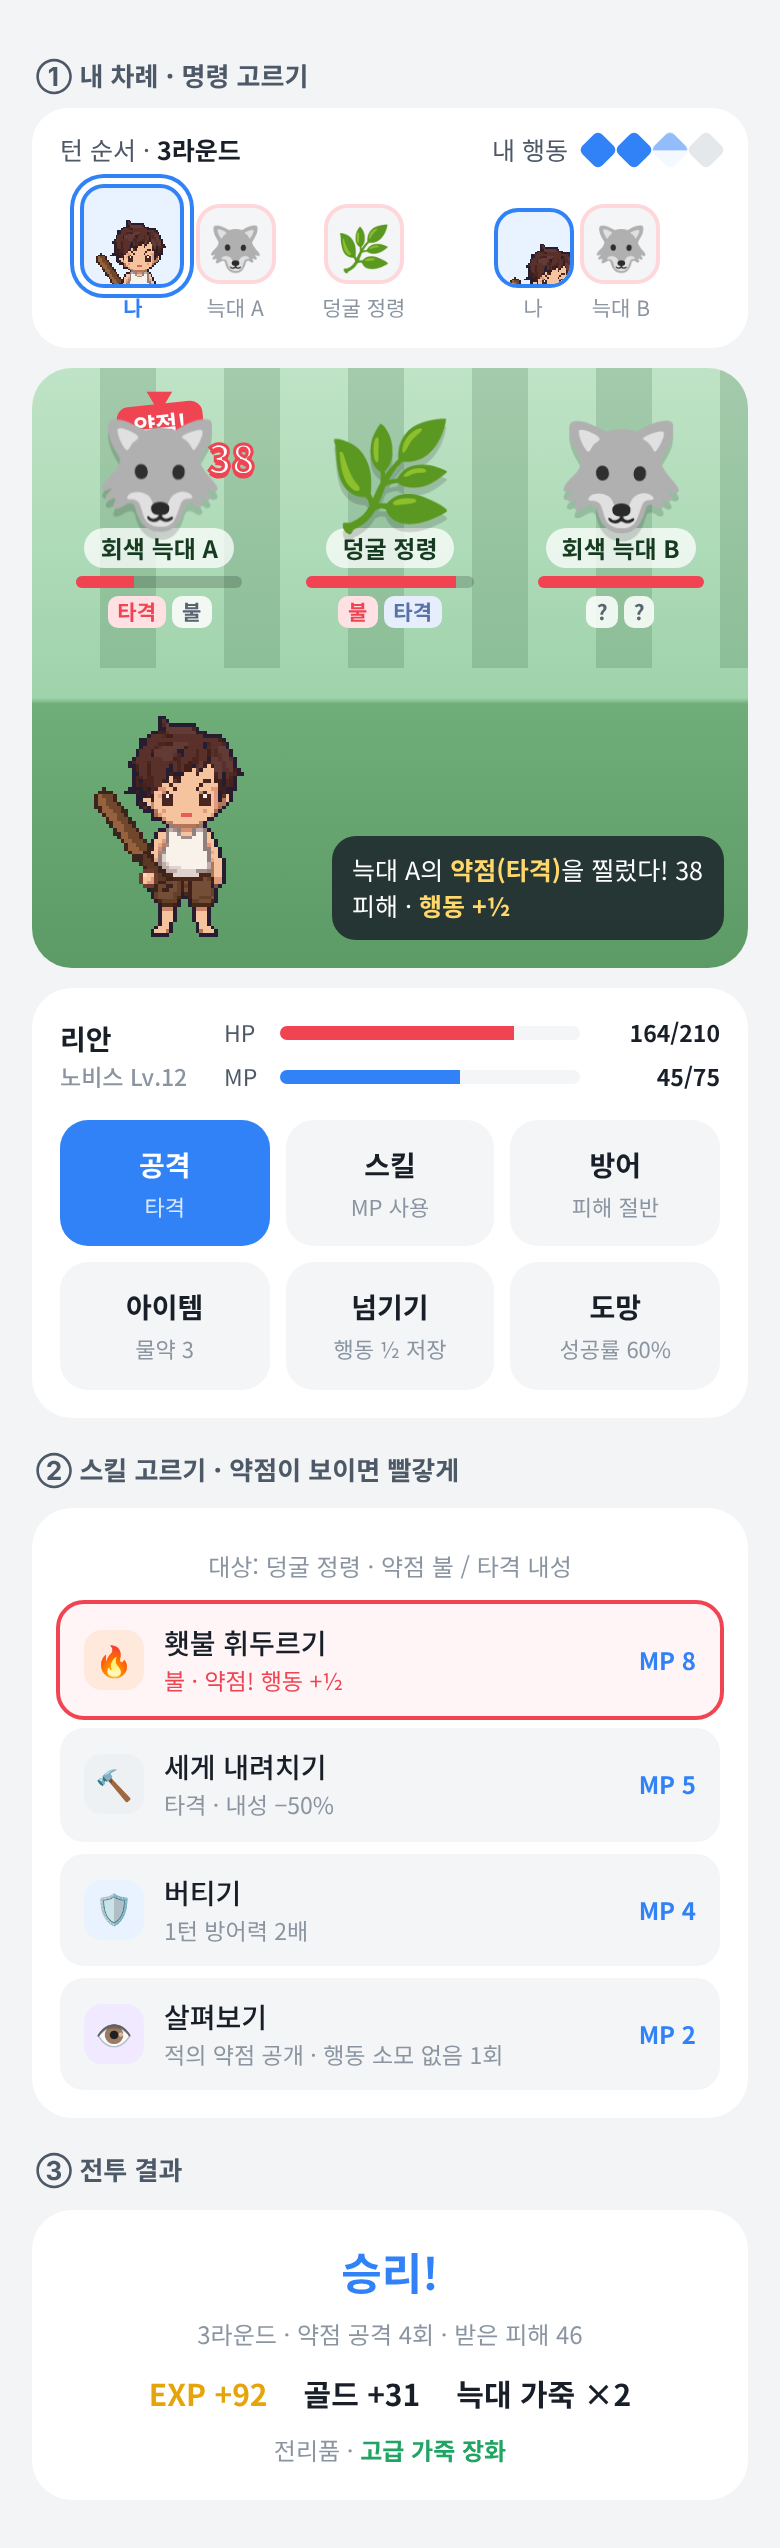
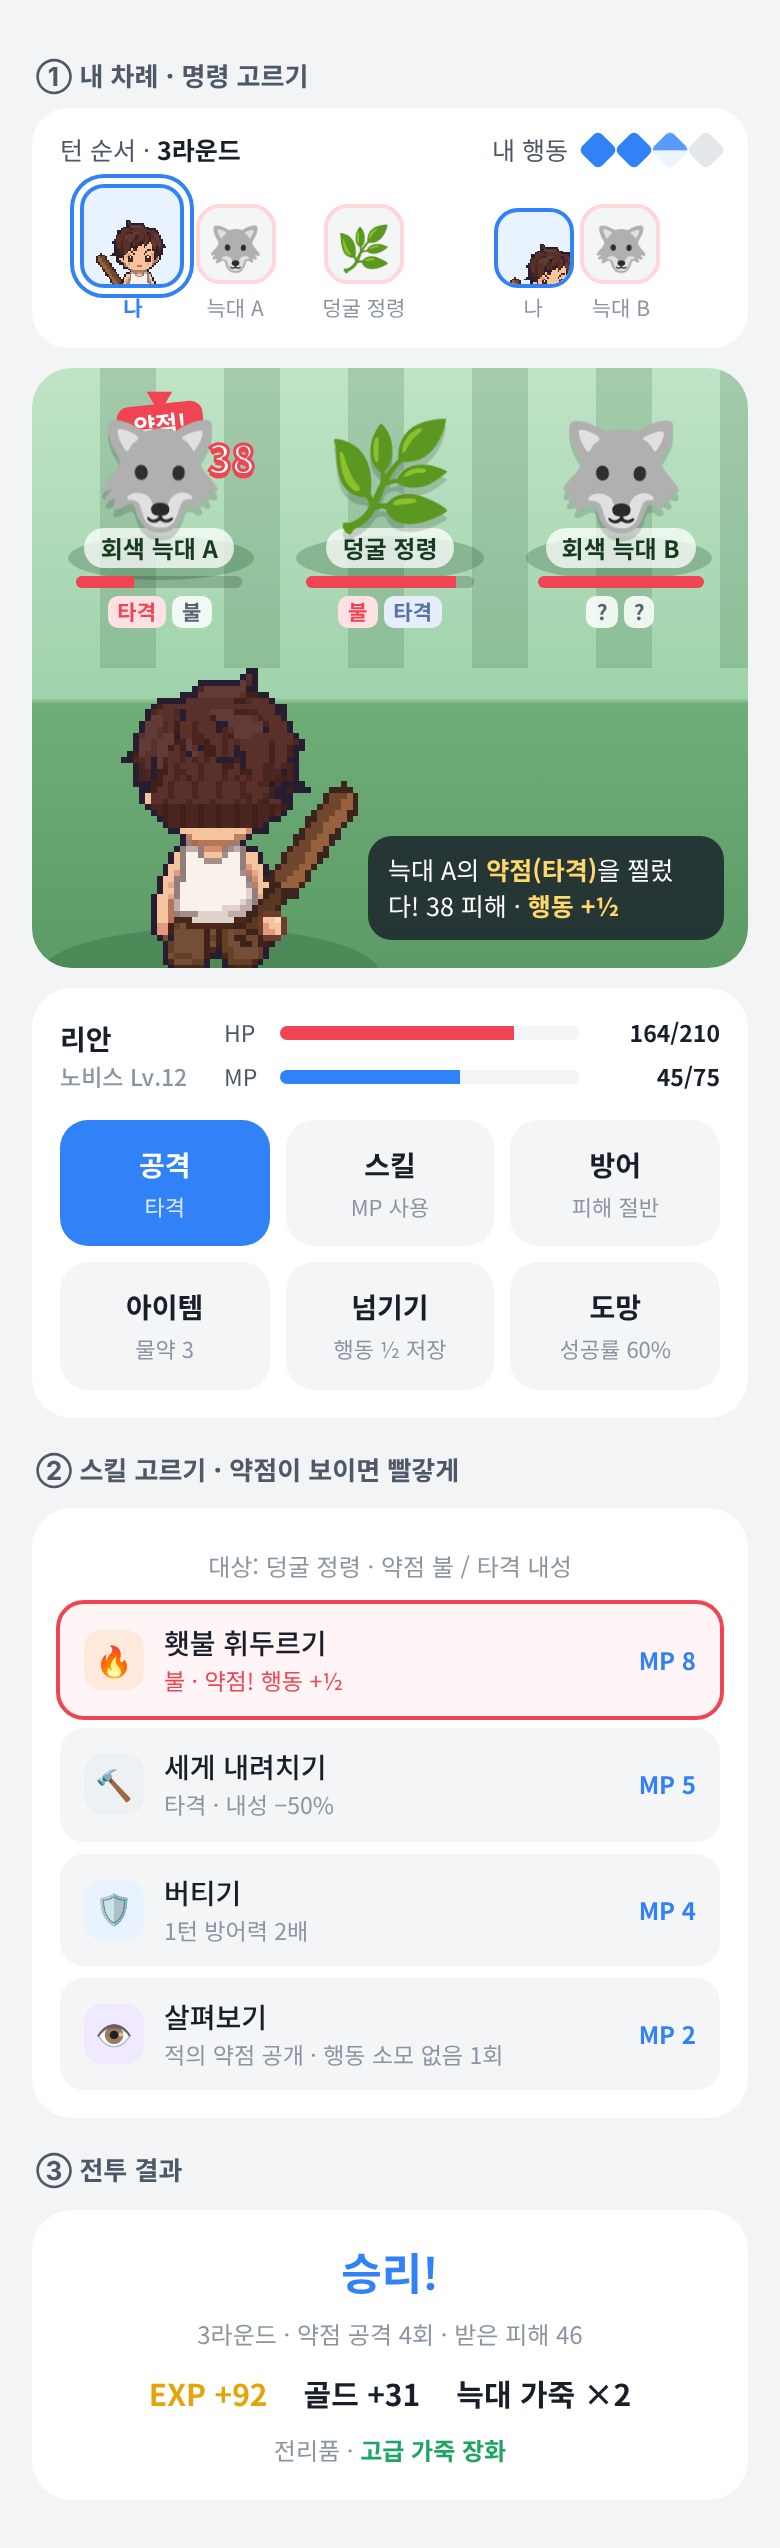
Add back-view player sprites and Pokemon-style battle layout mockup
Claude-Session: https://claude.ai/code/session_015cmTPUQ4zgwBRLa7nDL7dC

diff --git a/mockup/battle-preview.html b/mockup/battle-preview.html
@@ -49,9 +49,12 @@ body{background:var(--bg);color:var(--ink);font-family:'Noto Sans KR',system-ui,
 @keyframes bob{50%{transform:translateY(-4px)}}
 .dmg{position:absolute;top:6px;right:4px;font-weight:900;font-size:20px;color:#fff;-webkit-text-stroke:1.5px var(--red);text-shadow:0 2px 0 var(--red)}
 .weakpop{position:absolute;top:-6px;left:50%;transform:translateX(-50%) rotate(-6deg);background:var(--red);color:#fff;font-weight:900;font-size:12px;padding:1px 8px;border-radius:6px;white-space:nowrap}
-.me-on{position:absolute;left:18px;bottom:10px;width:120px;height:120px}
+.me-on{position:absolute;left:-6px;bottom:-34px;width:190px;height:190px}
+.plat{position:absolute;border-radius:50%;background:rgba(40,90,50,.28)}
+.plat.me{left:4px;bottom:-26px;width:170px;height:46px}
+.plat.foe{top:84px;height:22px;width:26%}
 .me-on img{position:absolute;inset:0;width:100%;height:100%}
-.log{position:absolute;right:12px;bottom:14px;left:150px;background:rgba(25,31,40,.82);color:#fff;font-size:12.5px;border-radius:12px;padding:8px 10px;line-height:1.45}
+.log{position:absolute;right:12px;bottom:14px;left:168px;background:rgba(25,31,40,.82);color:#fff;font-size:12.5px;border-radius:12px;padding:8px 10px;line-height:1.45}
 .log b{color:#ffd76a}
 /* status + commands */
 .panel{background:var(--surface);border-radius:20px;padding:14px;margin-top:10px}
@@ -94,12 +97,13 @@ body{background:var(--bg);color:var(--ink);font-family:'Noto Sans KR',system-ui,
   </div>
 </div>
 <div class="field">
+  <div class="plat foe" style="left:5%"></div><div class="plat foe" style="left:37%"></div><div class="plat foe" style="left:69%"></div>
   <div class="foes">
     <div class="foe target"><div class="weakpop">약점!</div><div class="spr">🐺</div><div class="dmg">38</div><div class="nm">회색 늑대 A</div><div class="hpb"><i style="width:35%"></i></div><div class="weak"><span class="w">타격</span><span>불</span></div></div>
     <div class="foe"><div class="spr">🌿</div><div class="nm">덩굴 정령</div><div class="hpb"><i style="width:90%"></i></div><div class="weak"><span class="w">불</span><span class="r">타격</span></div></div>
     <div class="foe"><div class="spr">🐺</div><div class="nm">회색 늑대 B</div><div class="hpb"><i style="width:100%"></i></div><div class="weak"><span>?</span><span>?</span></div></div>
   </div>
[2 lines of base64/hex data omitted]
   <div class="log">늑대 A의 <b>약점(타격)</b>을 찔렀다! 38 피해 · <b>행동 +½</b></div>
 </div>
 <div class="panel">

diff --git a/mockup/battle-preview.src.html b/mockup/battle-preview.src.html
@@ -49,9 +49,12 @@ body{background:var(--bg);color:var(--ink);font-family:'Noto Sans KR',system-ui,
 @keyframes bob{50%{transform:translateY(-4px)}}
 .dmg{position:absolute;top:6px;right:4px;font-weight:900;font-size:20px;color:#fff;-webkit-text-stroke:1.5px var(--red);text-shadow:0 2px 0 var(--red)}
 .weakpop{position:absolute;top:-6px;left:50%;transform:translateX(-50%) rotate(-6deg);background:var(--red);color:#fff;font-weight:900;font-size:12px;padding:1px 8px;border-radius:6px;white-space:nowrap}
-.me-on{position:absolute;left:18px;bottom:10px;width:120px;height:120px}
+.me-on{position:absolute;left:-6px;bottom:-34px;width:190px;height:190px}
+.plat{position:absolute;border-radius:50%;background:rgba(40,90,50,.28)}
+.plat.me{left:4px;bottom:-26px;width:170px;height:46px}
+.plat.foe{top:84px;height:22px;width:26%}
 .me-on img{position:absolute;inset:0;width:100%;height:100%}
-.log{position:absolute;right:12px;bottom:14px;left:150px;background:rgba(25,31,40,.82);color:#fff;font-size:12.5px;border-radius:12px;padding:8px 10px;line-height:1.45}
+.log{position:absolute;right:12px;bottom:14px;left:168px;background:rgba(25,31,40,.82);color:#fff;font-size:12.5px;border-radius:12px;padding:8px 10px;line-height:1.45}
 .log b{color:#ffd76a}
 /* status + commands */
 .panel{background:var(--surface);border-radius:20px;padding:14px;margin-top:10px}
@@ -94,12 +97,13 @@ body{background:var(--bg);color:var(--ink);font-family:'Noto Sans KR',system-ui,
   </div>
 </div>
 <div class="field">
+  <div class="plat foe" style="left:5%"></div><div class="plat foe" style="left:37%"></div><div class="plat foe" style="left:69%"></div>
   <div class="foes">
     <div class="foe target"><div class="weakpop">약점!</div><div class="spr">🐺</div><div class="dmg">38</div><div class="nm">회색 늑대 A</div><div class="hpb"><i style="width:35%"></i></div><div class="weak"><span class="w">타격</span><span>불</span></div></div>
     <div class="foe"><div class="spr">🌿</div><div class="nm">덩굴 정령</div><div class="hpb"><i style="width:90%"></i></div><div class="weak"><span class="w">불</span><span class="r">타격</span></div></div>
     <div class="foe"><div class="spr">🐺</div><div class="nm">회색 늑대 B</div><div class="hpb"><i style="width:100%"></i></div><div class="weak"><span>?</span><span>?</span></div></div>
   </div>
-  <div class="me-on"><img class="px" src="{{BODY}}" alt=""><img class="px" src="{{HAIR}}" alt=""><img class="px" src="{{WPN}}" alt=""><img class="px" src="{{FIST}}" alt=""></div>
+  <div class="plat me"></div><div class="me-on"><img class="px" src="{{BODY}}" alt=""><img class="px" src="{{HAIR}}" alt=""><img class="px" src="{{WPN}}" alt=""><img class="px" src="{{FIST}}" alt=""></div>
   <div class="log">늑대 A의 <b>약점(타격)</b>을 찔렀다! 38 피해 · <b>행동 +½</b></div>
 </div>
 <div class="panel">

diff --git a/tools/make_sprites.py b/tools/make_sprites.py
@@ -105,6 +105,43 @@ for i, w in enumerate(weapons):
     sprites[f'wpn{i}'] = hold(w)
     sprites[f'wico{i}'] = w
 
+# back view (Pokemon-style battle): mirror the front sprite and cover the face with hair
+from PIL import ImageOps
+HAIR_LV = {(99, 59, 54): 0, (90, 48, 42): 1, (80, 43, 36): 1, (75, 37, 32): 2, (70, 34, 29): 2, (64, 32, 24): 3}
+HAIR_COLS = ['brown', 'black', 'blonde', 'red', 'silver', 'blue', 'pink']
+HAIR_PAL = {'brown': [(99, 59, 54), (90, 48, 42), (75, 37, 32), (64, 32, 24)],
+            'black': [(78, 74, 92), (58, 54, 70), (46, 42, 58), (36, 33, 46)],
+            'blonde': [(246, 216, 132), (222, 180, 96), (186, 140, 70), (150, 104, 52)],
+            'red': [(222, 100, 70), (190, 70, 52), (150, 50, 42), (118, 38, 36)],
+            'silver': [(232, 234, 242), (198, 200, 216), (160, 162, 184), (124, 126, 150)],
+            'blue': [(110, 150, 226), (76, 110, 190), (56, 80, 150), (42, 58, 116)],
+            'pink': [(246, 168, 196), (220, 124, 164), (178, 88, 128), (140, 64, 100)]}
+OUTL = (38, 30, 48, 255)
+fb = ImageOps.mirror(sprites['body0'])
+for i, c in enumerate(HAIR_COLS):
+    h = ImageOps.mirror(sprites[f'hair{i}']).copy()
+    pal = HAIR_PAL[c]
+    comp = fb.copy(); comp.alpha_composite(h)
+    op = lambda x, y: 0 <= x < 64 and 0 <= y < 64 and comp.getpixel((x, y))[3] > 128
+    for y in range(13, 29):
+        for x in range(22, 44):
+            if not op(x, y) or h.getpixel((x, y))[3] > 128:
+                continue
+            edge = any(not op(x + dx, y + dy) for dx, dy in ((1, 0), (-1, 0), (0, 1), (0, -1)))
+            if edge:
+                h.putpixel((x, y), OUTL); continue
+            lv = 1
+            if (x + (y // 3)) % 4 == 0: lv = 2
+            if y >= 25: lv = 2 if (x % 3) else 3
+            if y <= 15 and x % 3 == 1: lv = 0
+            h.putpixel((x, y), pal[lv] + (255,))
+    sprites[f'bhair{i}'] = h
+for k in range(4):
+    sprites[f'bbody{k}'] = ImageOps.mirror(sprites[f'body{k}'])
+    sprites[f'bfist{k}'] = ImageOps.mirror(sprites[f'fist{k}'])
+for i in range(7):
+    sprites[f'bwpn{i}'] = ImageOps.mirror(sprites[f'wpn{i}'])
+
 data = {}
 for k, im in sprites.items():
     im.save(OUT + k + '.png')
@@ -121,4 +158,9 @@ for i in range(4):
     c = sprites[f'body{i}'].copy(); c.alpha_composite(sprites[f'hair{i}']); c.alpha_composite(sprites['wpn0']); c.alpha_composite(sprites[f'fist{i}'])
     row.alpha_composite(c, ((7 + i) * 68, 0))
 row.resize((row.width * 3, 192), Image.NEAREST).save(A + 'preview_game_sprites.png')
+back = Image.new('RGBA', (68 * 7, 64), (244, 245, 246, 255))
+for i in range(7):
+    c = sprites[f'bbody{i % 4}'].copy(); c.alpha_composite(sprites[f'bhair{i}']); c.alpha_composite(sprites[f'bwpn{i}']); c.alpha_composite(sprites[f'bfist{i % 4}'])
+    back.alpha_composite(c, (i * 68, 0))
+back.resize((back.width * 3, 192), Image.NEAREST).save(A + 'preview_back_sprites.png')
 print(sum(len(v) for v in data.values()), 'bytes of data URIs')
